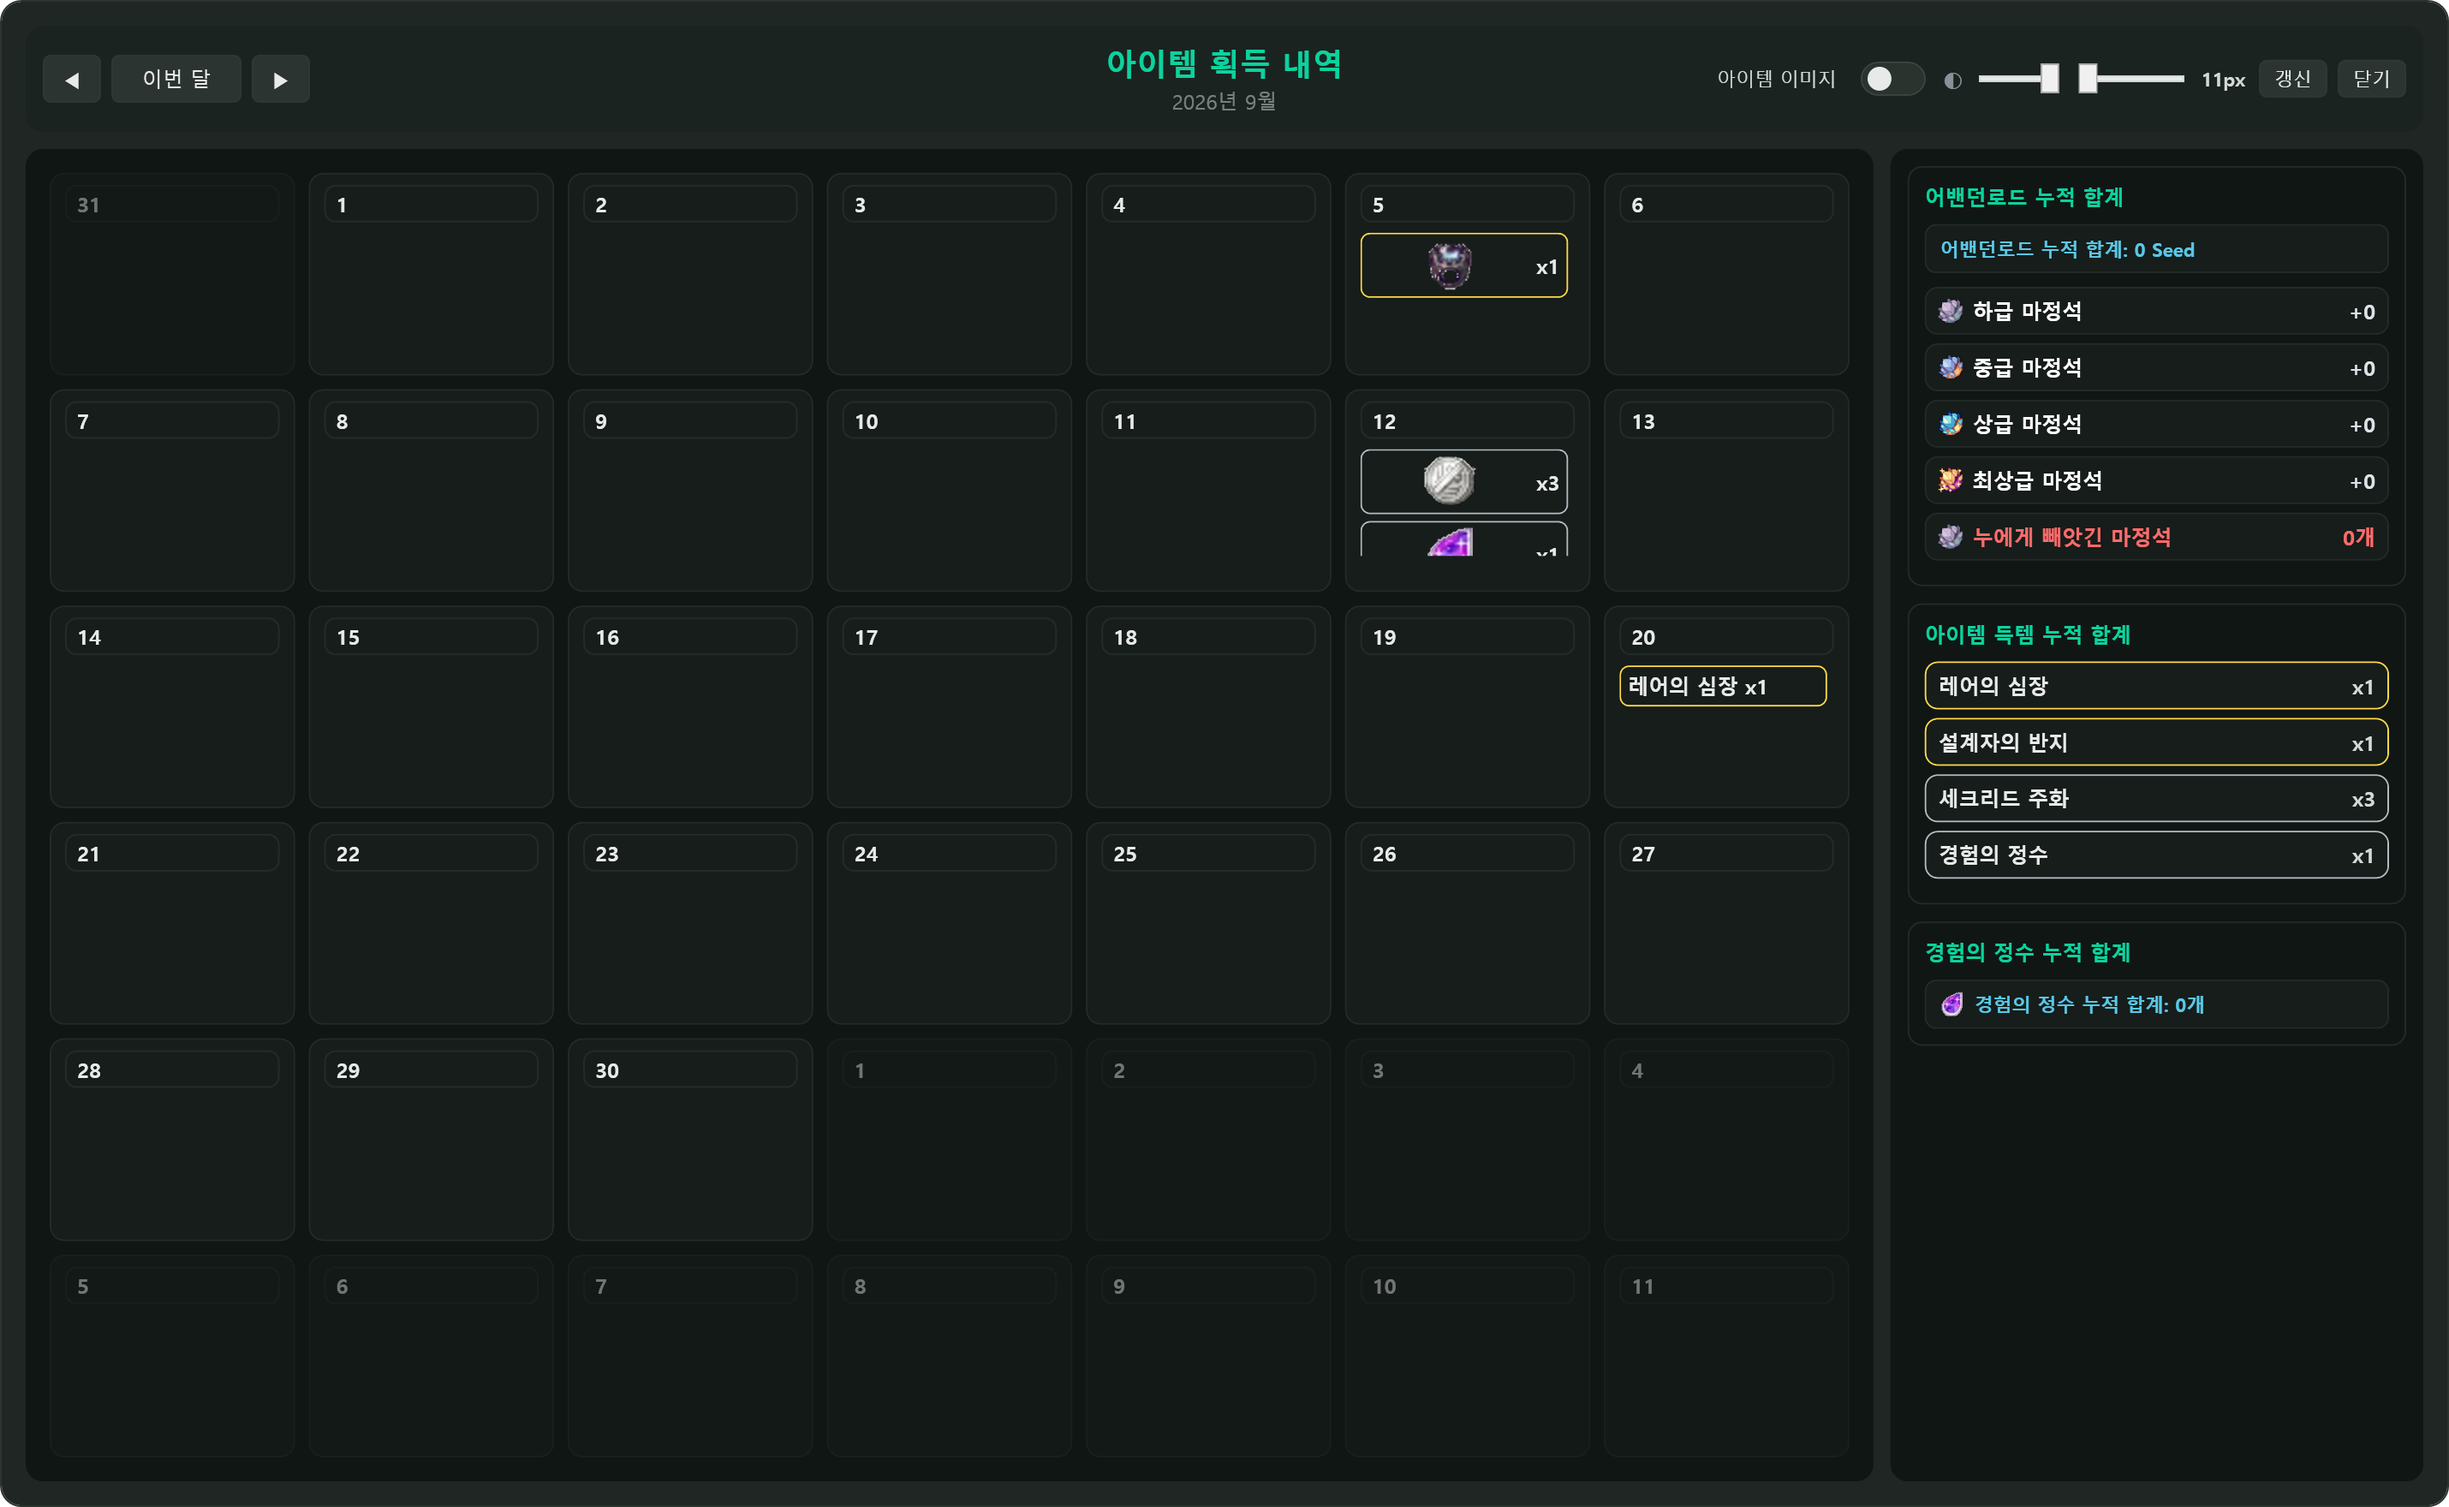
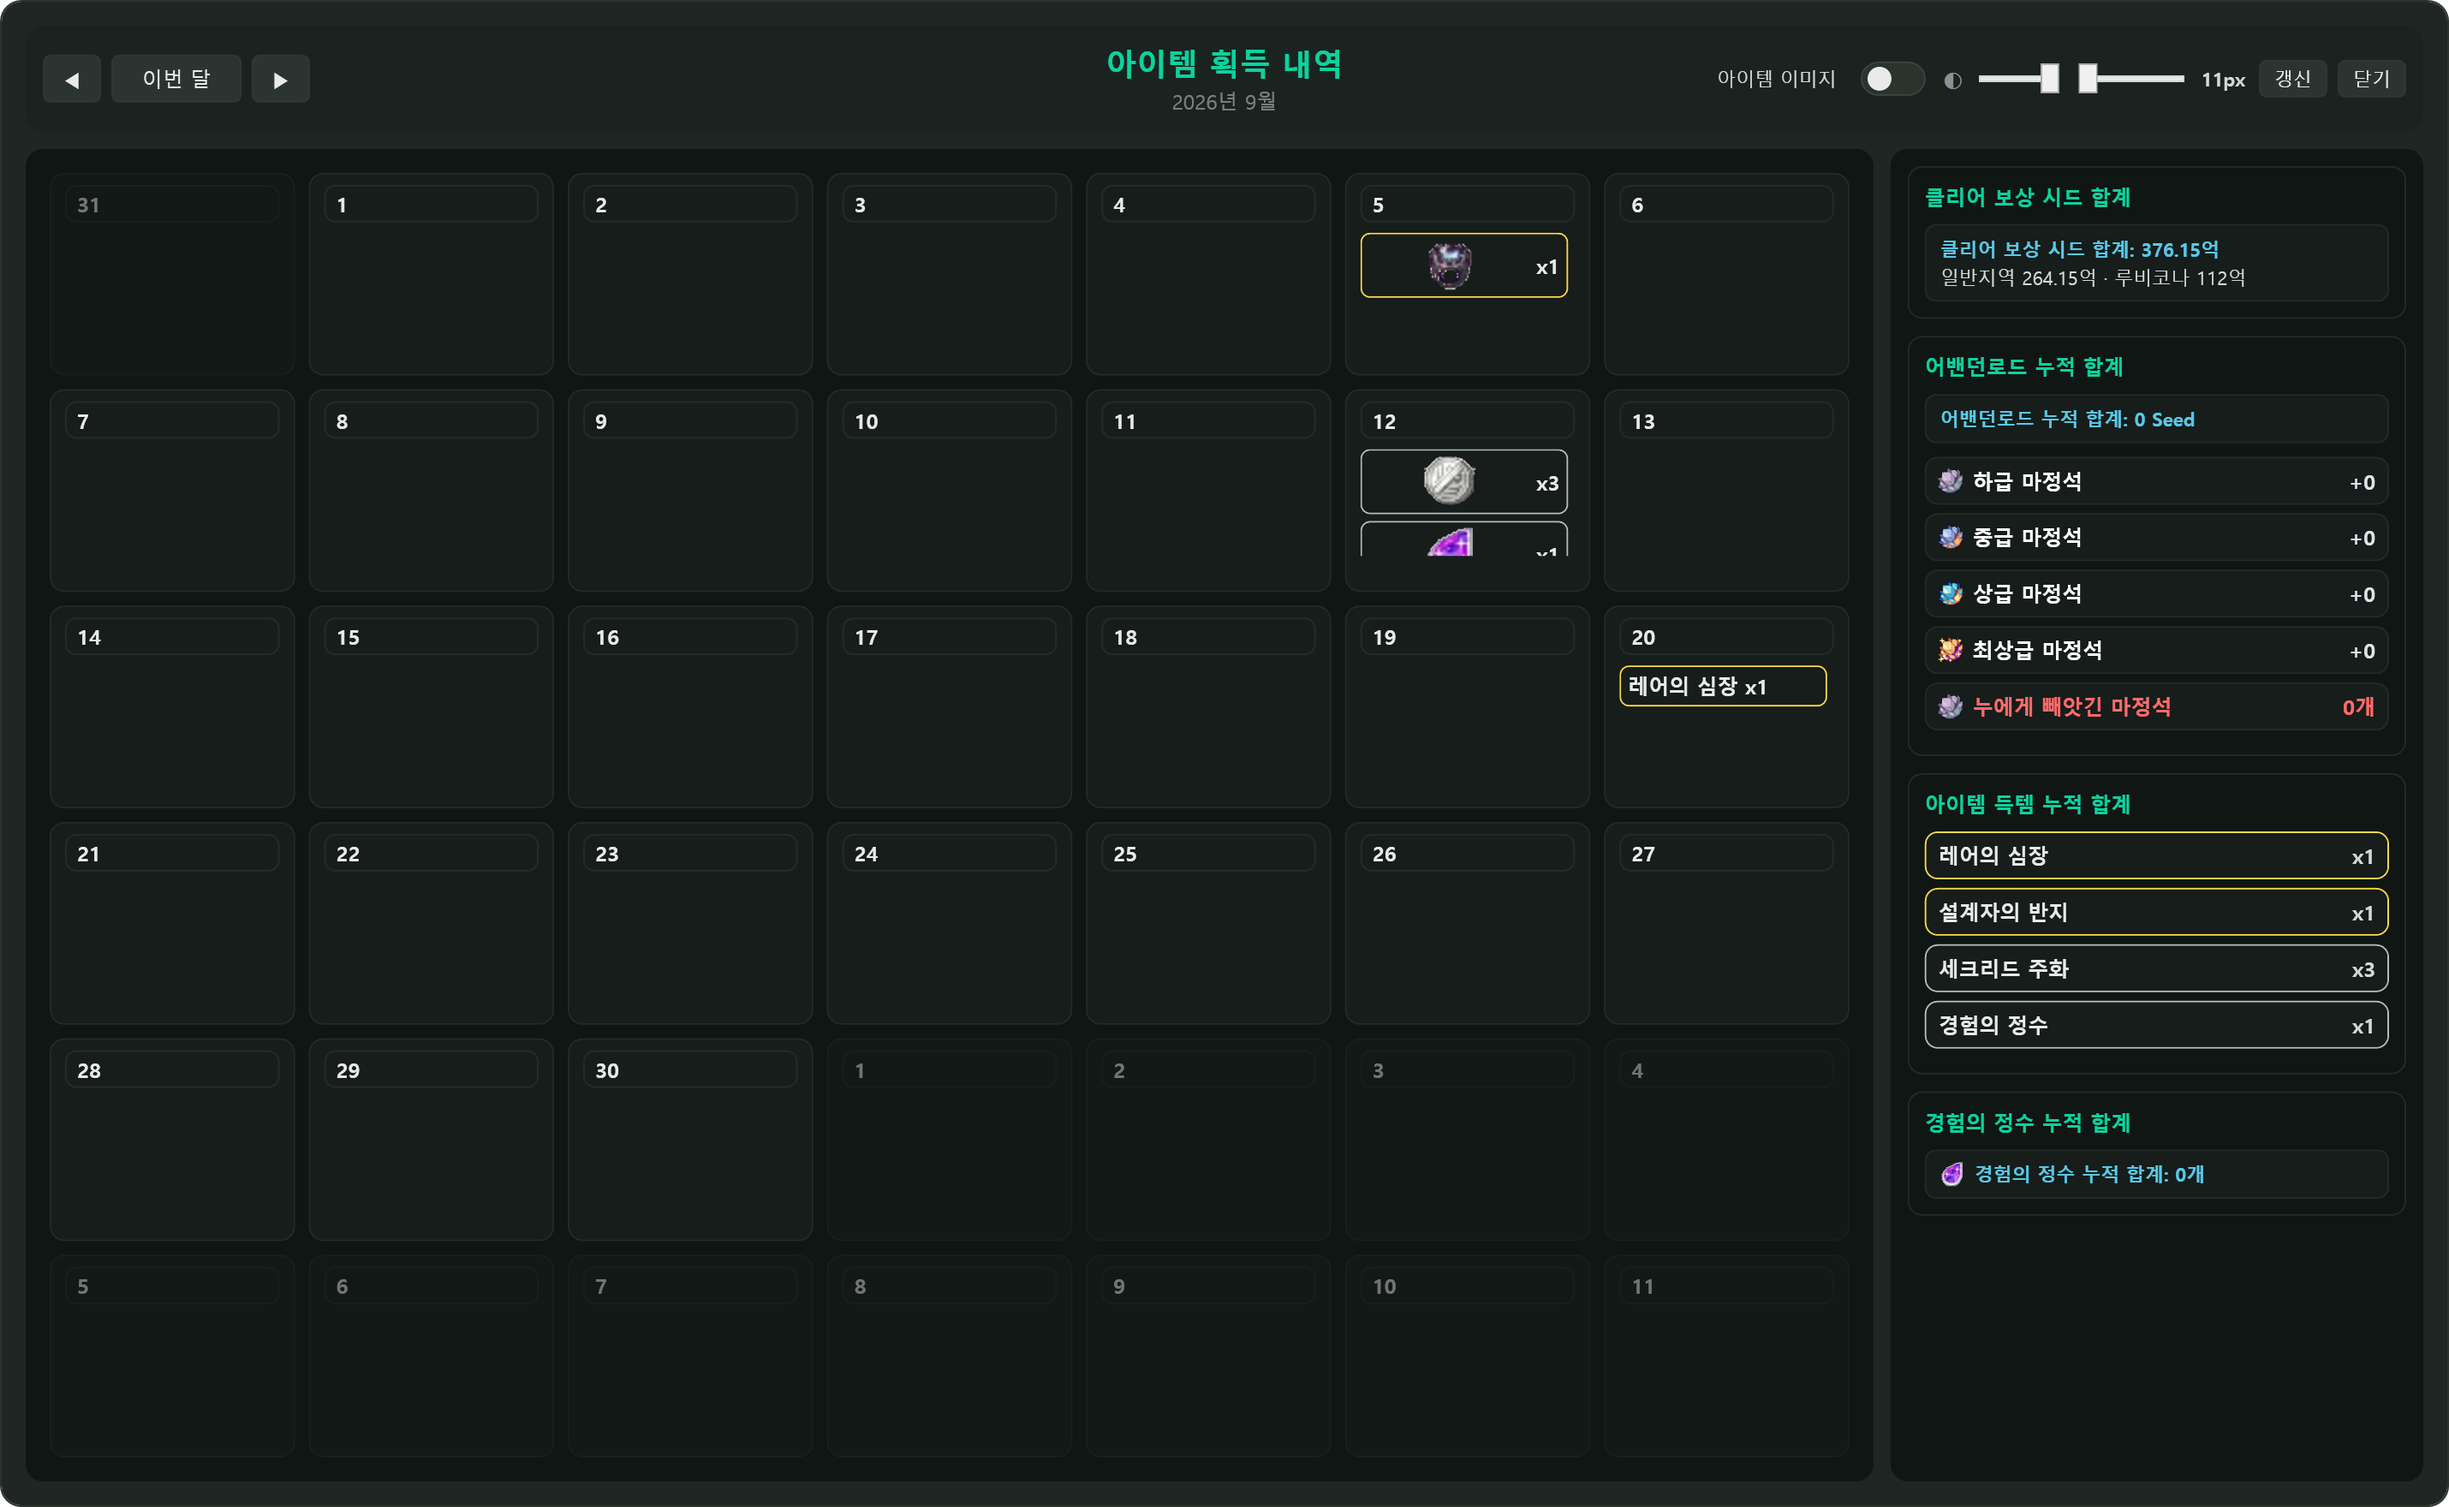
feat: 주간 득템 통계에 경험의 정수 행 + 달력에 클리어 보상 시드 합계 섹션
- 주간 득템 통계 하단에 해당 주의 경험의 정수 합계 표시 (달력과 같은 Exp 아카이브 소스)
- 달력 우측 어밴던로드 누적 합계 위에 시드 합계 카드 — 주간 시작일(월요일)이 그 달에 속하는 주 단위로 합산
- 합계와 함께 일반지역/루비코나 내역 병기, README 달력 이미지 재생성

Changed region(s): [[0.778, 0.125, 0.9647, 0.6875], [0.778, 0.7188, 0.9024, 0.7812], [0.9336, 0.6562, 0.9647, 0.6875]]

diff --git a/Views/Overlays/ItemCalendarWindow.xaml b/Views/Overlays/ItemCalendarWindow.xaml
@@ -383,6 +383,40 @@
                                     Padding="9"
                                     Margin="0,0,0,10">
                                 <StackPanel>
+                                    <TextBlock Text="클리어 보상 시드 합계"
+                                               Foreground="{DynamicResource OverlayTitleAccentTextBrush}"
+                                               FontSize="{Binding ItemCalendarFontSize, Converter={StaticResource AddValueConverter}, ConverterParameter=1}"
+                                               FontWeight="SemiBold"
+                                               Margin="0,0,0,8"/>
+
+                                    <Border Background="{DynamicResource OverlayCardBackgroundBrush}"
+                                            BorderBrush="{DynamicResource OverlayCardBorderBrush}"
+                                            BorderThickness="1"
+                                            CornerRadius="6"
+                                            Padding="8,6">
+                                        <StackPanel>
+                                            <TextBlock Text="{Binding MonthlySeedTotalText}"
+                                                       Foreground="{DynamicResource OverlayExpAccentBrush}"
+                                                       FontSize="{Binding ItemCalendarFontSize}"
+                                                       FontWeight="SemiBold"
+                                                       TextTrimming="CharacterEllipsis"/>
+                                            <TextBlock Text="{Binding MonthlySeedDetailText}"
+                                                       Foreground="{DynamicResource OverlayInfoTextBrush}"
+                                                       FontSize="{Binding ItemCalendarFontSize}"
+                                                       Margin="0,2,0,0"
+                                                       TextTrimming="CharacterEllipsis"/>
+                                        </StackPanel>
+                                    </Border>
+                                </StackPanel>
+                            </Border>
+
+                            <Border Background="{DynamicResource OverlaySurfaceBackgroundBrush}"
+                                    BorderBrush="{DynamicResource OverlayCardBorderBrush}"
+                                    BorderThickness="1"
+                                    CornerRadius="8"
+                                    Padding="9"
+                                    Margin="0,0,0,10">
+                                <StackPanel>
                                     <TextBlock Text="어밴던로드 누적 합계"
                                                Foreground="{DynamicResource OverlayTitleAccentTextBrush}"
                                                FontSize="{Binding ItemCalendarFontSize, Converter={StaticResource AddValueConverter}, ConverterParameter=1}"

diff --git a/Views/Overlays/ItemCalendarWindow.xaml.cs b/Views/Overlays/ItemCalendarWindow.xaml.cs
@@ -149,6 +149,66 @@ namespace TWChatOverlay.Views
             }
         }
 
+        private string _monthlySeedTotalText = string.Empty;
+        public string MonthlySeedTotalText
+        {
+            get => _monthlySeedTotalText;
+            private set
+            {
+                if (_monthlySeedTotalText == value)
+                    return;
+                _monthlySeedTotalText = value;
+                OnPropertyChanged(nameof(MonthlySeedTotalText));
+            }
+        }
+
+        private string _monthlySeedDetailText = string.Empty;
+        public string MonthlySeedDetailText
+        {
+            get => _monthlySeedDetailText;
+            private set
+            {
+                if (_monthlySeedDetailText == value)
+                    return;
+                _monthlySeedDetailText = value;
+                OnPropertyChanged(nameof(MonthlySeedDetailText));
+            }
+        }
+
+        /// <summary>
+        /// 클리어 보상 시드 월 합계 — 주간 시작일(월요일)이 표시 중인 달에 속하는 주들을 통째로 합산한다
+        /// (어밴던로드 주간 통계와 동일한 주 단위 기준).
+        /// </summary>
+        private async Task RefreshMonthlySeedSummaryAsync(DateTime monthStart)
+        {
+            try
+            {
+                DateTime monthEnd = monthStart.AddMonths(1).AddDays(-1);
+                int diff = ((int)monthStart.DayOfWeek + 6) % 7;
+                DateTime firstMonday = diff == 0 ? monthStart : monthStart.AddDays(7 - diff);
+
+                long general = 0;
+                long rubicona = 0;
+                for (DateTime monday = firstMonday; monday <= monthEnd; monday = monday.AddDays(7))
+                {
+                    var (g, r) = await WeeklySeedRewardService.SumWeeklyClearSeedAsync(
+                        _settings.ChatLogFolderPath, monday, monday.AddDays(6));
+                    general += g;
+                    rubicona += r;
+                }
+
+                if (_currentMonthStart != monthStart)
+                    return;
+
+                MonthlySeedTotalText = $"클리어 보상 시드 합계: {WeeklySeedRewardService.FormatSeed(general + rubicona)}";
+                MonthlySeedDetailText = $"일반지역 {WeeklySeedRewardService.FormatSeed(general)} · 루비코나 {WeeklySeedRewardService.FormatSeed(rubicona)}";
+            }
+            catch (Exception ex)
+            {
+                AppLogger.Warn("Failed to refresh monthly seed summary.", ex);
+            }
+        }
+
         public string MonthText
         {
             get => _monthText;
@@ -233,6 +293,8 @@ namespace TWChatOverlay.Views
                 MonthlyAbandonSummary.Clear();
                 MonthlyAbandonSeedText = "어밴던로드 누적 합계: 0 Seed";
                 MonthlyExperienceEssenceSeedText = "경험의 정수 누적 합계: 0개";
+                MonthlySeedTotalText = "클리어 보상 시드 합계: 0";
+                MonthlySeedDetailText = string.Empty;
                 SetLoadingState(false, "로그를 불러오지 못했습니다.");
                 return;
             }
@@ -242,6 +304,7 @@ namespace TWChatOverlay.Views
 
             ApplyLoadedMonth(monthStart, data.Snapshots, data.AbandonSummary);
             SetLoadingState(false, string.Empty);
+            _ = RefreshMonthlySeedSummaryAsync(monthStart);
         }
 
         /// <summary>
@@ -269,11 +332,37 @@ namespace TWChatOverlay.Views
             return result;
         }
 
+        /// <summary>
+        /// 주간 득템 통계용: 기간 내 경험의 정수 획득 개수를 합산한다 (달력과 같은 아카이브 소스).
+        /// </summary>
+        internal static long ReadExperienceEssenceCountForRange(DateTime startDate, DateTime endDate)
+        {
+            long total = 0;
+            if (!Directory.Exists(ExpDirectoryPath))
+                return total;
+
+            foreach (string path in Directory.EnumerateFiles(ExpDirectoryPath, "*.html").OrderBy(p => p, StringComparer.OrdinalIgnoreCase))
+            {
+                foreach (var entry in ReadExpEntries(path))
+                {
+                    if (entry.LogDate.Date < startDate.Date || entry.LogDate.Date > endDate.Date)
+                        continue;
+
+                    if (TryExtractExperienceEssenceGain(entry.Text, out int gain))
+                        total += gain;
+                }
+            }
+
+            return total;
+        }
+
         /// <summary>도움말/README 렌더 전용: 주어진 샘플 스냅샷으로 이번 달 달력을 구성한다. (파일 IO 없음)</summary>
         internal void ApplySampleMonthForRender(IReadOnlyList<ItemLogSnapshotEntry> snapshots)
         {
             DateTime monthStart = GetMonthStart(DateTime.Today);
             ApplyLoadedMonth(monthStart, snapshots, new AbandonMonthlySummarySnapshotEntry { MonthStart = monthStart });
+            MonthlySeedTotalText = "클리어 보상 시드 합계: 376.15억";
+            MonthlySeedDetailText = "일반지역 264.15억 · 루비코나 112억";
             SetLoadingState(false, string.Empty);
         }
 

diff --git a/Views/Overlays/WeeklyItemSummaryWindow.cs b/Views/Overlays/WeeklyItemSummaryWindow.cs
@@ -309,6 +309,7 @@ namespace TWChatOverlay.Views
                 };
                 empty.SetResourceReference(TextBlock.ForegroundProperty, "OverlayHintTextBrush");
                 panel.Children.Add(empty);
+                AddExperienceEssenceRow(panel, weekStart, weekEnd);
                 return;
             }
 
@@ -359,6 +360,52 @@ namespace TWChatOverlay.Views
             totalLabel.SetResourceReference(TextBlock.ForegroundProperty, "TextBrush");
             totalRow.Children.Add(totalLabel);
             panel.Children.Add(totalRow);
+
+            AddExperienceEssenceRow(panel, weekStart, weekEnd);
+        }
+
+        /// <summary>목록 맨 아래에 해당 주의 경험의 정수 합계 행을 추가한다 (달력과 같은 Exp 아카이브 소스).</summary>
+        private static void AddExperienceEssenceRow(StackPanel panel, DateTime weekStart, DateTime weekEnd)
+        {
+            long essenceCount = 0;
+            try
+            {
+                essenceCount = ItemCalendarWindow.ReadExperienceEssenceCountForRange(weekStart, weekEnd);
+            }
+            catch (Exception ex)
+            {
+                AppLogger.Warn("Failed to read weekly experience essence count.", ex);
+            }
+
+            var row = new DockPanel { Margin = new Thickness(2, 4, 2, 1) };
+
+            var value = new TextBlock { Text = $"x{essenceCount:N0}", FontSize = 13, FontWeight = FontWeights.SemiBold };
+            value.SetResourceReference(TextBlock.ForegroundProperty, "OverlayExpAccentBrush");
+            DockPanel.SetDock(value, Dock.Right);
+            row.Children.Add(value);
+
+            var labelPanel = new StackPanel { Orientation = Orientation.Horizontal };
+            try
+            {
+                var icon = new Image
+                {
+                    Width = 18,
+                    Height = 18,
+                    Margin = new Thickness(0, 0, 6, 0),
+                    VerticalAlignment = VerticalAlignment.Center,
+                    Source = new System.Windows.Media.Imaging.BitmapImage(
+                        new Uri("pack://application:,,,/Data/images/Item/경험의 정수.png")),
+                };
+                RenderOptions.SetBitmapScalingMode(icon, BitmapScalingMode.NearestNeighbor);
+                labelPanel.Children.Add(icon);
+            }
+            catch { }
+
+            var name = new TextBlock { Text = "경험의 정수", FontSize = 13, VerticalAlignment = VerticalAlignment.Center };
+            name.SetResourceReference(TextBlock.ForegroundProperty, "OverlayExpAccentBrush");
+            labelPanel.Children.Add(name);
+            row.Children.Add(labelPanel);
+            panel.Children.Add(row);
         }
 
         protected override void OnSourceInitialized(EventArgs e)
